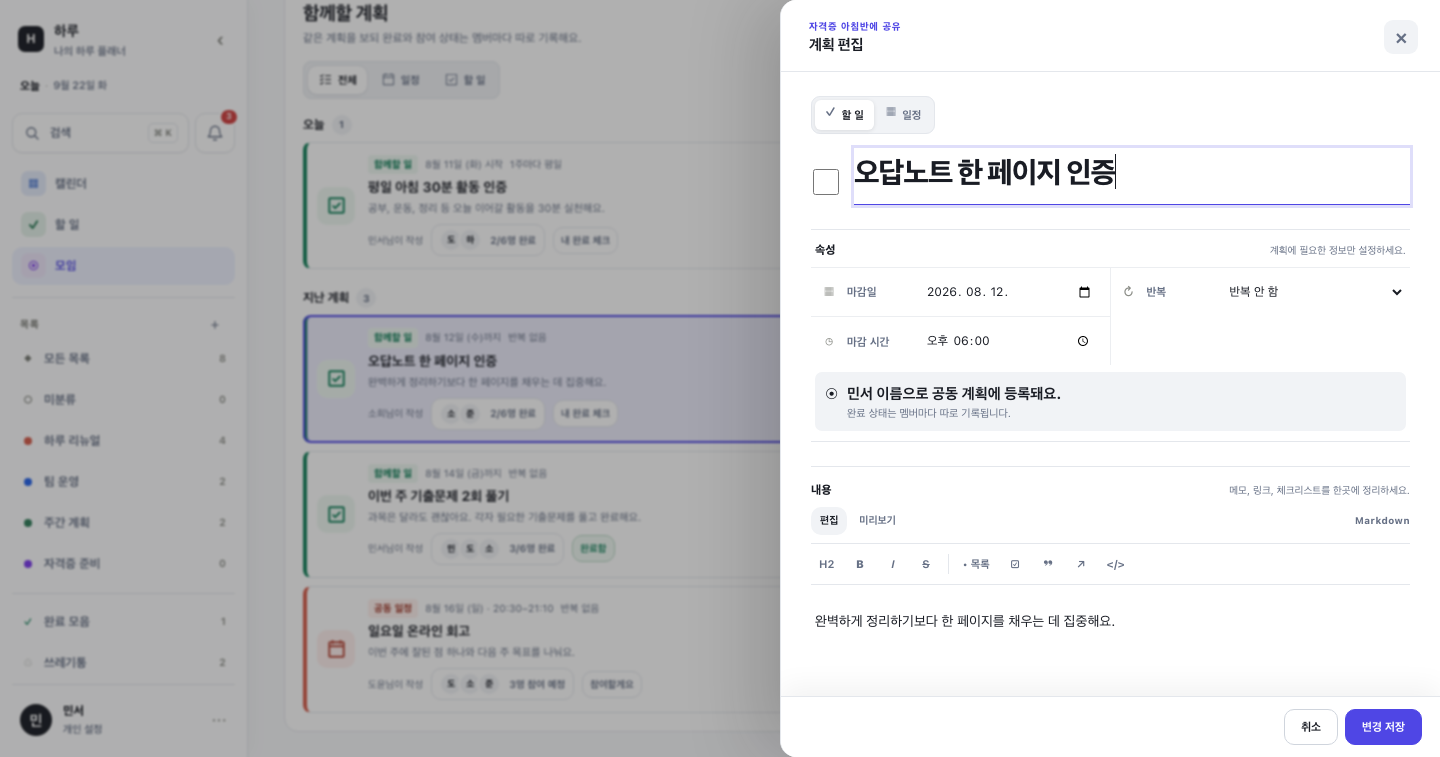
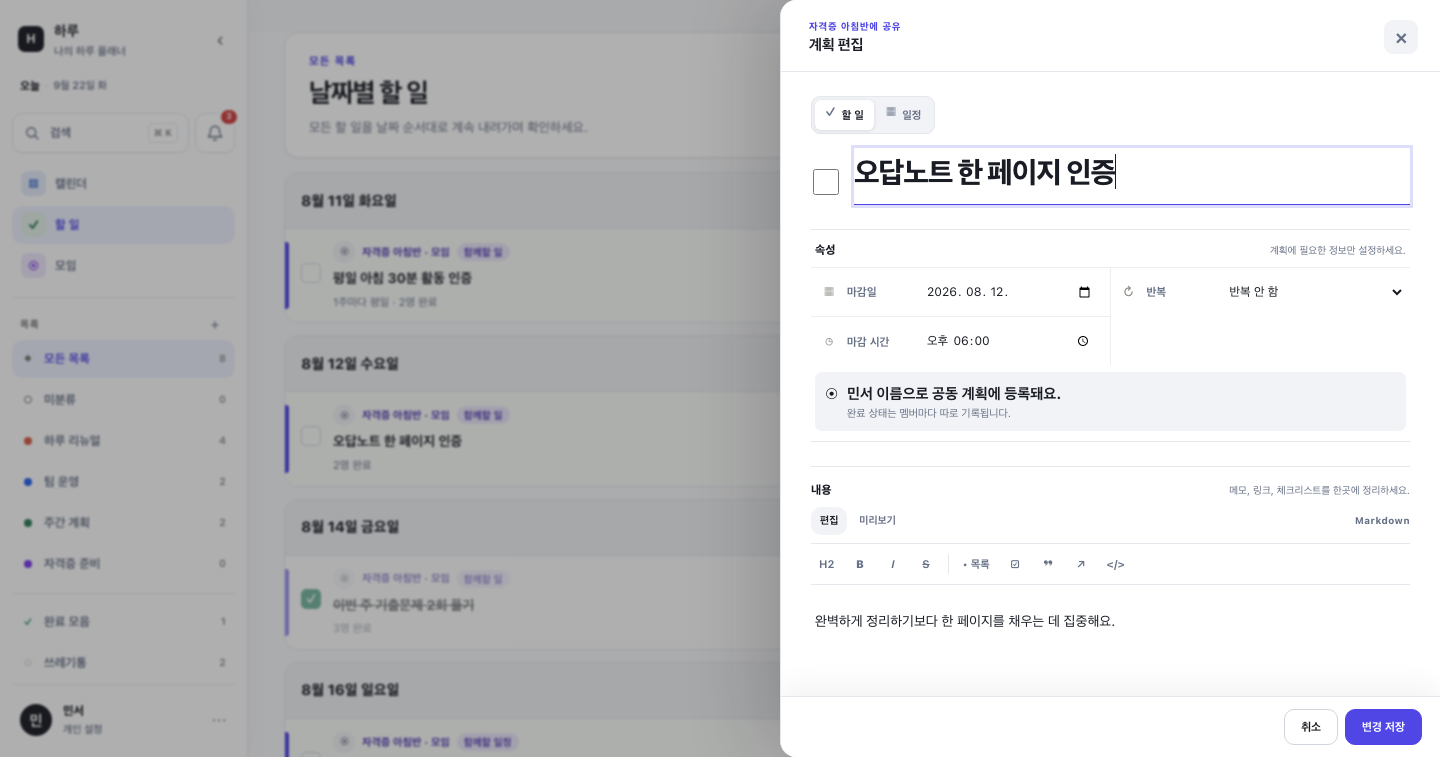
fix(screen): open shared todo details in place

diff --git a/src/pages/TodosPage.tsx b/src/pages/TodosPage.tsx
@@ -8,7 +8,11 @@ import TodoProjectListView from '../components/TodoProjectListView'
 import type { CalendarEventInput, Todo, TodoInput } from '../data/initialData'
 import type { PlannerProject } from '../data/projects'
 import { BACKLOG_PROJECT_NAME, getProjectSelection } from '../data/projects'
-import type { StudySharedItemEntry } from '../data/studyRooms'
+import type {
+  StudyRoom,
+  StudySharedItemEntry,
+  StudySharedItemInput,
+} from '../data/studyRooms'
 import { Button, PageToolbar, SegmentedControl } from '../design-system'
 import type {
   FocusRecord,
@@ -41,6 +45,7 @@ type TodosPageProps = {
   selectedDate: Date
   todos: Todo[]
   projects: PlannerProject[]
+  studyRooms: StudyRoom[]
   sharedItems: StudySharedItemEntry[]
   focusRecords: FocusRecord[]
   onAddTodo: (todo: TodoInput) => void
@@ -48,6 +53,11 @@ type TodosPageProps = {
   onUpdateTodo: (todoId: string, todo: TodoInput) => void
   onToggleTodo: (todoId: string) => void
   onRemoveTodo: (todoId: string) => void
+  onUpdateSharedItem: (
+    roomId: string,
+    itemId: string,
+    input: StudySharedItemInput,
+  ) => void
   onToggleSharedItemStatus: (roomId: string, itemId: string) => void
   onStartFocus: (
     sourceType: FocusSourceType,
@@ -64,6 +74,7 @@ export default function TodosPage({
   selectedDate,
   todos,
   projects,
+  studyRooms,
   sharedItems,
   focusRecords,
   onAddTodo,
@@ -71,6 +82,7 @@ export default function TodosPage({
   onUpdateTodo,
   onToggleTodo,
   onRemoveTodo,
+  onUpdateSharedItem,
   onToggleSharedItemStatus,
   onStartFocus,
   onPauseFocus,
@@ -84,6 +96,11 @@ export default function TodosPage({
   const [todoView, setTodoView] = useState<TodoView>('dates')
   const [isCreating, setIsCreating] = useState(false)
   const [editingTodo, setEditingTodo] = useState<Todo>()
+  const [editingSharedItem, setEditingSharedItem] =
+    useState<StudySharedItemEntry>()
+  const editingSharedRoom = studyRooms.find(
+    (room) => room.id === editingSharedItem?.roomId,
+  )
   const selectedProject =
     selectedProjectIds.length === 1
       ? projects.find((project) => project.id === selectedProjectIds[0])
@@ -124,6 +141,12 @@ export default function TodosPage({
     if (todoId) {
       navigate({ pathname: '/todos', search: location.search }, { replace: true })
     }
+  }
+
+  const openSharedItemEditor = (entry: StudySharedItemEntry) => {
+    setIsCreating(false)
+    setEditingTodo(undefined)
+    setEditingSharedItem(entry)
   }
 
   return (
@@ -172,6 +195,7 @@ export default function TodosPage({
               onToggleTodo={onToggleTodo}
               onToggleSharedItemStatus={onToggleSharedItemStatus}
               onEditTodo={setEditingTodo}
+              onEditSharedItem={openSharedItemEditor}
               onCreateTodo={() => setIsCreating(true)}
               onStartFocus={onStartFocus}
               onPauseFocus={onPauseFocus}
@@ -240,6 +264,48 @@ export default function TodosPage({
                 }
               : undefined
           }
+        />
+      )}
+
+      {editingSharedItem && editingSharedRoom && (
+        <PlanEditorModal
+          key={`${editingSharedItem.roomId}-${editingSharedItem.item.id}`}
+          initialType={editingSharedItem.item.type}
+          selectedDate={new Date(`${editingSharedItem.item.date}T00:00:00`)}
+          fixedRoom={editingSharedRoom}
+          memberId={editingSharedItem.memberId}
+          item={editingSharedItem.item}
+          readOnly={!editingSharedItem.canManage}
+          focusRecord={focusRecords.find((record) =>
+            record.sourceType === 'study' &&
+            record.roomId === editingSharedItem.roomId &&
+            record.sourceId === editingSharedItem.item.id &&
+            !record.endedAt,
+          )}
+          onFinishFocus={onFinishFocus}
+          completed={
+            editingSharedItem.item.type === 'todo' &&
+            editingSharedItem.item.completedMemberIds.includes(
+              editingSharedItem.memberId,
+            )
+          }
+          onChangeCompleted={
+            editingSharedItem.item.type === 'todo'
+              ? () => onToggleSharedItemStatus(
+                  editingSharedItem.roomId,
+                  editingSharedItem.item.id,
+                )
+              : undefined
+          }
+          onClose={() => setEditingSharedItem(undefined)}
+          onSaveShared={(input) => {
+            onUpdateSharedItem(
+              editingSharedItem.roomId,
+              editingSharedItem.item.id,
+              input,
+            )
+            setEditingSharedItem(undefined)
+          }}
         />
       )}
     </main>

diff --git a/src/components/TodoDateListView.tsx b/src/components/TodoDateListView.tsx
@@ -1,5 +1,4 @@
 import { type CSSProperties, useEffect, useMemo, useRef, useState } from 'react'
-import { Link } from 'react-router-dom'
 import type { Todo } from '../data/initialData'
 import { toDateKey } from '../data/initialData'
 import type { PlannerProject } from '../data/projects'
@@ -36,6 +35,7 @@ type TodoDateListViewProps = {
   onToggleTodo: (todoId: string) => void
   onToggleSharedItemStatus: (roomId: string, itemId: string) => void
   onEditTodo: (todo: Todo) => void
+  onEditSharedItem: (entry: StudySharedItemEntry) => void
   onCreateTodo: () => void
   onStartFocus: (
     sourceType: FocusSourceType,
@@ -58,6 +58,7 @@ export default function TodoDateListView({
   onToggleTodo,
   onToggleSharedItemStatus,
   onEditTodo,
+  onEditSharedItem,
   onCreateTodo,
   onStartFocus,
   onPauseFocus,
@@ -265,7 +266,8 @@ export default function TodoDateListView({
                 )
               })}
 
-              {group.sharedItems.map(({ roomId, roomName, memberId, item }) => {
+              {group.sharedItems.map((entry) => {
+                const { roomId, roomName, memberId, item } = entry
                 const statusMemberIds =
                   item.type === 'todo'
                     ? item.completedMemberIds
@@ -317,7 +319,13 @@ export default function TodoDateListView({
                           {typeLabel}
                         </span>
                       </div>
-                      <Link to={`/studies/${roomId}?tab=plans&plan=${encodeURIComponent(item.id)}`}>{item.title}</Link>
+                      <button
+                        className="todo-item-title-button"
+                        type="button"
+                        onClick={() => onEditSharedItem(entry)}
+                      >
+                        {item.title}
+                      </button>
                       <p>
                         {item.time ? `${item.time} · ` : ''}
                         {item.repeat === 'none'

diff --git a/src/App.tsx b/src/App.tsx
@@ -35,6 +35,7 @@ import {
   normalizeStudyRooms,
   type StudyProfileVisibility,
   type StudySharedItemEntry,
+  type StudySharedItemInput,
   type StudyRoom,
   type StudyRoomCreateInput,
 } from './data/studyRooms'
@@ -1025,6 +1026,19 @@ export default function App() {
     })
   }
 
+  const updateSharedItem = (
+    roomId: string,
+    itemId: string,
+    input: StudySharedItemInput,
+  ) => {
+    changeStudyRoom(roomId, (room) => ({
+      ...room,
+      sharedItems: room.sharedItems.map((item) =>
+        item.id === itemId ? { ...item, ...input } : item,
+      ),
+    }))
+  }
+
   const createStudyRoom = (input: StudyRoomCreateInput) => {
     const roomId = `study-${crypto.randomUUID()}`
     const accents: StudyRoom['accent'][] = ['coral', 'blue', 'green', 'violet']
@@ -1223,6 +1237,7 @@ export default function App() {
               selectedDate={selectedDate}
               todos={todos}
               projects={projects}
+              studyRooms={joinedStudyRooms}
               sharedItems={sharedItemEntries}
               focusRecords={unfinishedFocusRecords}
               onAddTodo={addTodo}
@@ -1230,6 +1245,7 @@ export default function App() {
               onUpdateTodo={updateTodo}
               onToggleTodo={toggleTodo}
               onRemoveTodo={removeTodo}
+              onUpdateSharedItem={updateSharedItem}
               onToggleSharedItemStatus={toggleSharedItemStatus}
               onStartFocus={startFocus}
               onPauseFocus={pauseFocus}

diff --git a/src/index.css b/src/index.css
@@ -3605,7 +3605,8 @@ button.event-chip:hover {
   white-space: nowrap;
 }
 
-.shared-todo-item .todo-date-copy > a {
+.shared-todo-item .todo-date-copy > a,
+.shared-todo-item .todo-date-copy > .todo-item-title-button {
   width: fit-content;
   max-width: 100%;
   font-size: 0.86rem;
